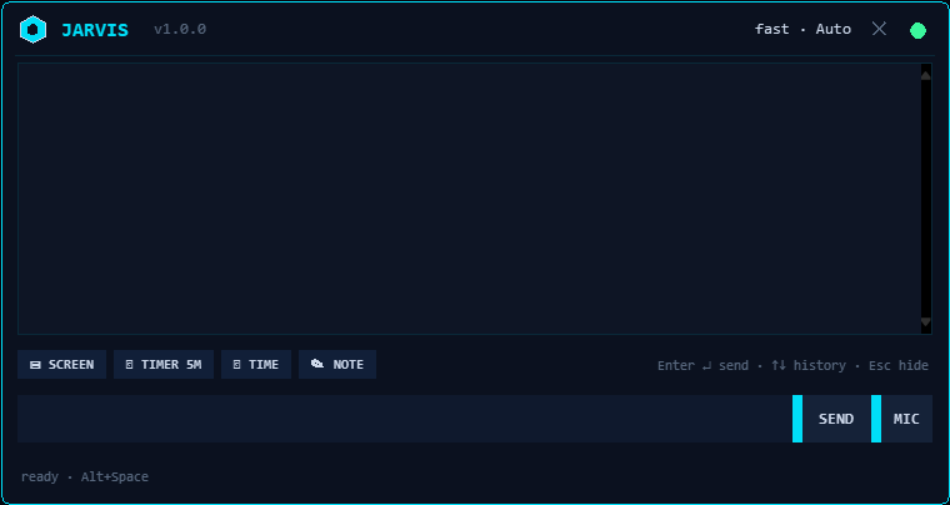
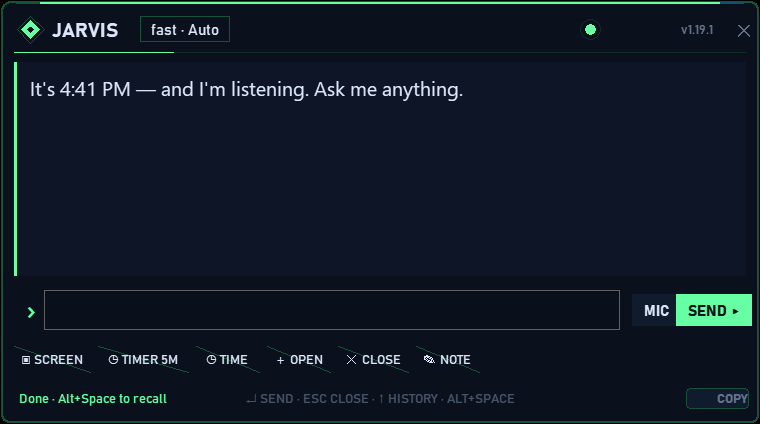
Recapture docs/overlay.png from the real v1.19.3 deck with the HUD furniture restored: brand diamond and JARVIS title, live version chip, status dot, all six quick chips, key hints and the COPY pill in the expanded state with an honest sample reply; point the README version badge at 1.19.3.

diff --git a/README.md b/README.md
@@ -4,7 +4,7 @@
 
 # JARVIS — talk to your Windows PC. It actually listens.
 
-![version](https://img.shields.io/badge/version-v1.19.2-blue)
+![version](https://img.shields.io/badge/version-v1.19.3-blue)
 ![license](https://img.shields.io/badge/license-MIT-green)
 ![tests](https://img.shields.io/badge/tests-653%20passing-brightgreen)
 ![platform](https://img.shields.io/badge/platform-Windows%2010%2F11-lightgrey)
